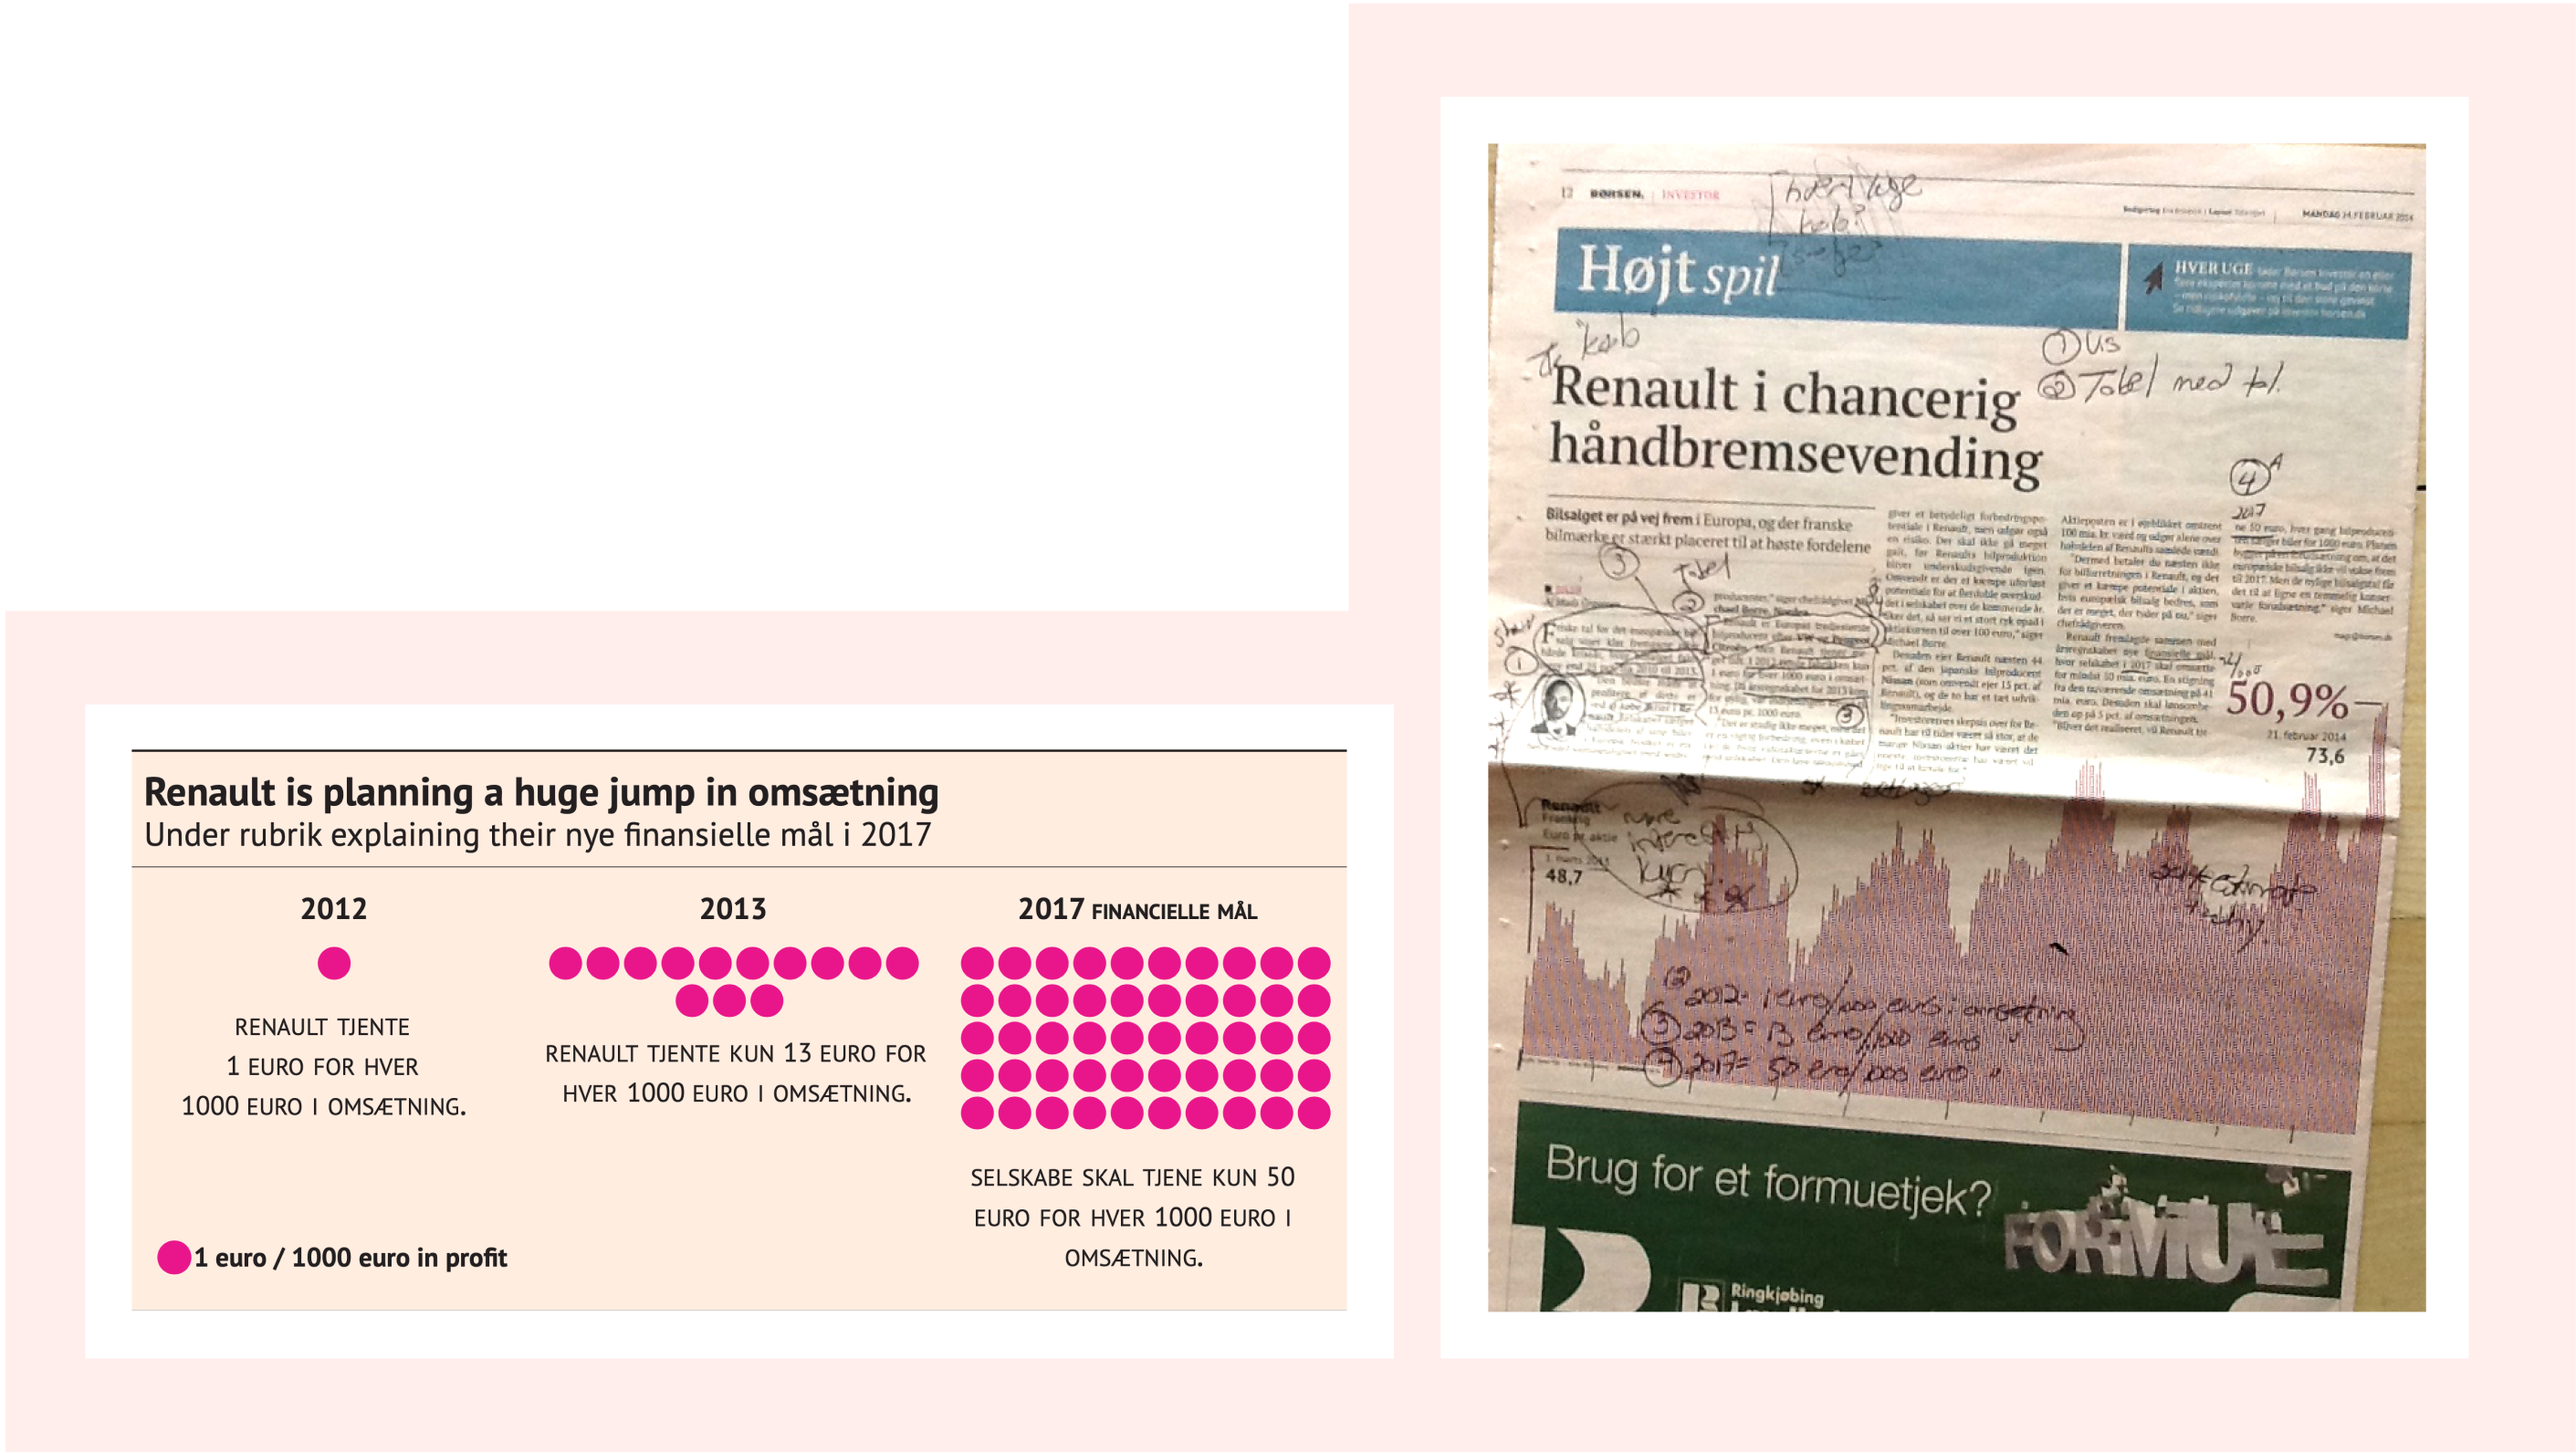
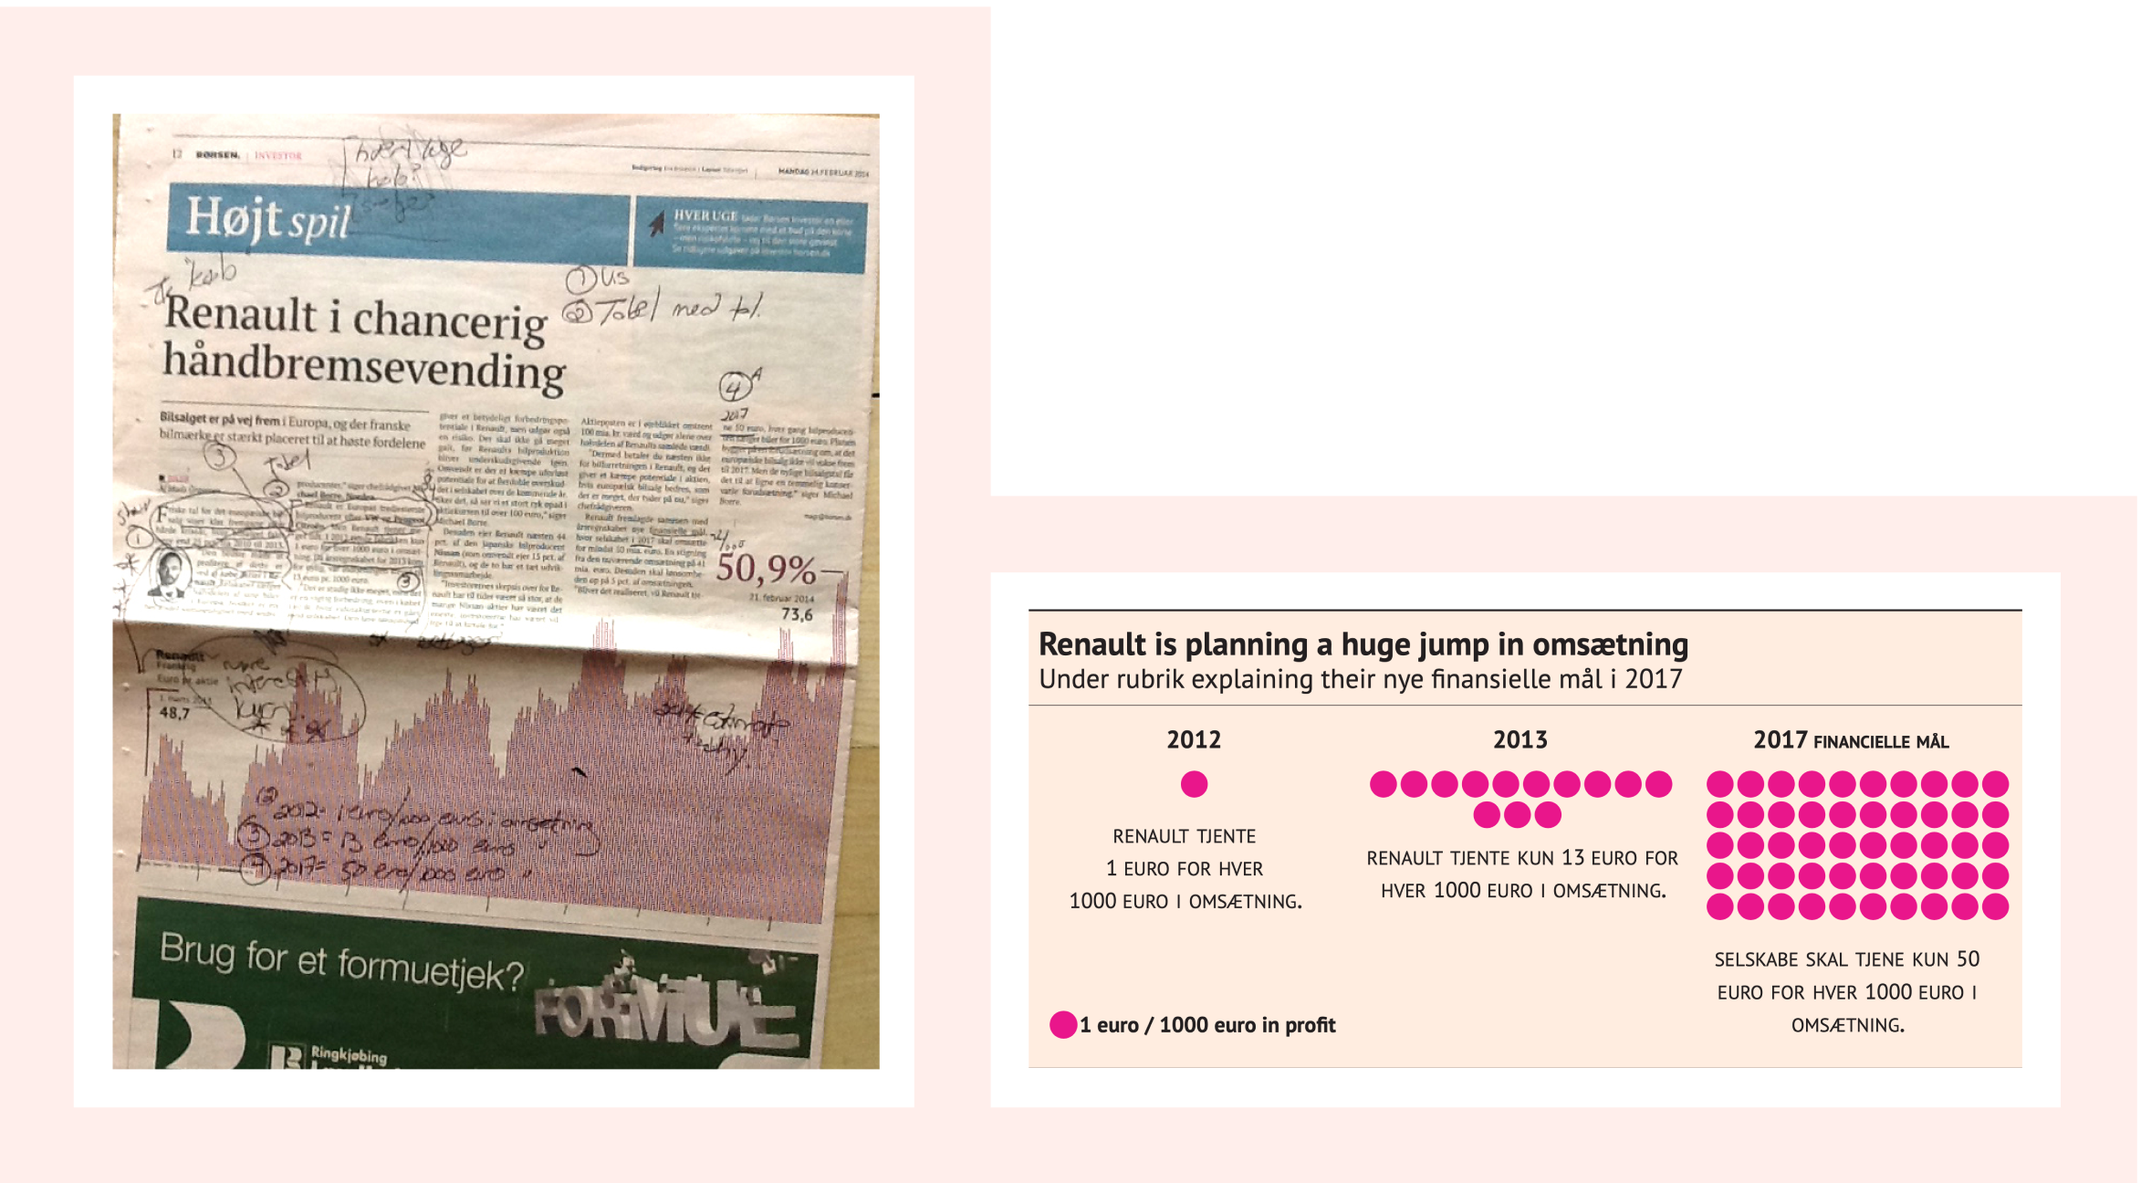
more work borsen page

diff --git a/case-study-borsen.html b/case-study-borsen.html
@@ -231,51 +231,98 @@
 
             <div>
               <div class="process-pic">
-                <img height="300" src="images/borsen-test-5.png" alt="" >
+                <img height="350" src="images/borsen-test-5.png" alt="" >
               </div>
-            <div class="caption" style="text-align: left;">
-              <span class="bold" style="text-transform: uppercase;" >Chaos in Ukraine. Things to improve in a simple graphic</span>
-              <br>
-              <span class="bold">1. </span>Adding a subhead to the headline to pull readers into graphic.
-              <span class="bold">2. </span> Placing the unit of measure on the top of the numbers.
-              <span class="bold">3. </span> Getting rid of the many decimal points for clarity.
-              <span class="bold">4. </span> Got rid of the date of the month as the month was enough.
-              <span class="bold">5. </span> Added horizontal lines to make the graph easier to read.
-            </div>
+              <div class="caption" style="text-align: left;">
+                <span class="bold" style="text-transform: uppercase;" >Chaos in Ukraine. Things to improve in a simple graphic</span>
+                <br> Graphic on the left is the older graphic. Graphic on the right is the redesigned one using the following principles. <br>
+                <span class="bold">1. </span>Adding a subhead to the headline to pull readers into graphic.
+                <span class="bold">2. </span> Placing the unit of measure on the top of the numbers instead of the headline of the graphic.
+                <span class="bold">3. </span> Getting rid of the many decimal points for clarity.
+                <span class="bold">4. </span> Got rid of the date of the month as the month was enough.
+                <span class="bold">5. </span> Added horizontal lines to make the graph easier to read.
+              </div>
             </div>
 
+            <!-- Renault Graphic -->
             <div>
               <div class="process-pic">
                 <img height="500" src="images/borsen-test-8.png" alt="" >
               </div>
-              <div class="caption" style="text-align: right;">
-                On the left is the wireframe covering the foundation for the page. Upon refinement, it was used to write the copy for the site.
+              <div class="caption" style="text-align: left;">
+              <span class="bold" style="text-transform: uppercase;">Renault jump in revenue coming. Quick value to a story in a new type of graphic.</span> <br>
+               Old graphic on the left. New graphic on the right. <br>
+              The older graphic had was eye catching but the story wasn't explained very well. It said there had been some ups and downs–
+              ending high. But the fact that the the end of the graphic is an estimate can't easily be seen.
+              There was also no easy way to understand the time frame of the graphic. <br>
+              <br> The graphic on the left is both quick and easy to understand. Already adding the years on the bottom
+              (the sketched in small tics) starts to tell more.
+              There is a key on the bottom tells the quantity of one circle.
+              and you get the answer to the story in a few seconds. If you are excited by the graphic you would read dive into the story.
               </div>
             </div>
+            <div>
+
+            <!-- skinny graphic -->
+            <div class="process-pic">
+              <img height="500" src="images/borsen-13.png" alt="" >
+            </div>
+            <div class="caption" style="text-align: left;">
+            <span class="bold" style="text-transform: uppercase;">TITLE HERE HERE in revenue coming.</span> <br>
+            fsddsafdsafdasf
+            </div>
+          </div>
+
+            <div class="process-pic">
+              <img height="500" src="images/borsen-14.png" alt="" >
+            </div>
+            <div class="caption" style="text-align: left;">
+            <span class="bold" style="text-transform: uppercase;">Ananomity
+              TITLE HERE in revenue coming.</span> <br>
+            fsddsafdsafdasf
+            </div>
+
+            <div class="process-pic">
+              <img height="500" src="images/borsen-14.png" alt="" >
+            </div>
+            <div class="caption" style="text-align: left;">
+            <span class="bold" style="text-transform: uppercase;">Ananomity
+              TITLE HERE in revenue coming.</span> <br>
+            fsddsafdsafdasf
+            </div>
+          </div>
+
+
+          </div>
+
+
+        </div>
+
+
+            <div class="headlines-in-banner">
+              New kinds of graphics
+            </div>
+
 
 <!-- bubble chart  -->
-
-
             <div>
               <div class="process-pic">
                 <img height="500" src="images/borsen-test-7b.png" alt="" >
               </div>
-            <div class="caption" style="text-align: right;">
-              On the left is the wireframe covering the foundation for the page. Upon refinement, it was used to write the copy for the site.
-            </div>
-            </div>
-
-
-
-
-            <div class="headlines-in-banner">
-              The Style Guide & guide lines in creating a graphic
+              <div class="caption" style="text-align: right;">
+                tktktk On the left is the wireframe covering the foundation for the page. Upon refinement, it was used to write the copy for the site.
+              </div>
             </div>
 
 <!-- Lollypop Chart  -->
           <div class="two-col-grid-container-b">
             <div class="project-caption" style="text-align: right;">
-              On the left is the wireframe covering the foundation for the page. Upon refinement, it was used to write the copy for the site.
+                <span class="bold" style="text-transform: uppercase;">Lolipop Chart. Large potential for exporting Danish products to close neighbors.</span> <br>
+                1. The country name is on the top followed by
+                2. The horizontal axis represents the amount of jobs that can be created if the potential is used. You can see the unit by both reading the words on margin-top
+                or reading it on the bottom axis.
+                3. The size of the circle shows the amount of money there is a potential for.
+
             </div>
             <div>
               <div class="process-pic">
@@ -283,6 +330,18 @@
               </div>
             </div>
           </div>
+          <div class="headlines-in-banner">
+            The Style Guide & guide lines in creating a graphic
+          </div>
+          <!-- Style guide part 1  -->
+          <div class="two-col-grid-container grid-container-porfolio-piece">
+            <div class="wrapper">
+              <div>
+                <div class="process-pic">
+                  <img height="500" src="images/BORSEN-TEST-2.png" alt="" >
+                </div>
+              </div>
+            </div>
 
 
 
@@ -291,18 +350,12 @@
       </div>
     <!-- below div closing to portfolio-banner -->
     </div>
+  </div>
 
-<!-- Style guide part 1  -->
-          <!-- <div class="two-col-grid-container grid-container-porfolio-piece">
-            <div class="wrapper">
-              <div>
-                <div class="process-pic">
-                  <img height="500" src="images/BORSEN-TEST-2.png" alt="" >
-                </div>
-              </div>
-            </div> -->
 
-          <!-- Style guide with LARGE fever –part 2 -->
+
+
+          <!-- Style guide sample delete -->
             <!-- <div class="wrapper">
               <div>
                 <div class="process-pic">
@@ -312,12 +365,13 @@
             </div>
           </div> -->
 
+
           <!-- style guide spread -->
-          <div>
+          <!-- <div>
              <div class="process-pic">
                   <img height="500" src="images/borsen-12-b.png" alt="" >
                 </div>
-          </div>
+          </div> -->
 
 <div class="spacing-70px"></div>
 

diff --git a/index.html b/index.html
@@ -149,7 +149,12 @@
           <p>
           <span class="
             proj-name semi-bold">Børsen </span> </a>
-          Tktk tktk Art Directed, <br> tk <br> tk <br> tk <br> tk <br>
+          Design Consultant Designing Information
+A graphic redesign, culminating in a comprehensive style guide for creating graphics.
+The guide was a visual representation, as well as an explanation on the foundation principles to making a graphic that is visually appealing, and makes it easy for the reader to understand, and interperate
+it to make conclusions they can react upon.
+
+
           </p>
           <div style="width:100%">
             <a href="case-study-borsen.html">
